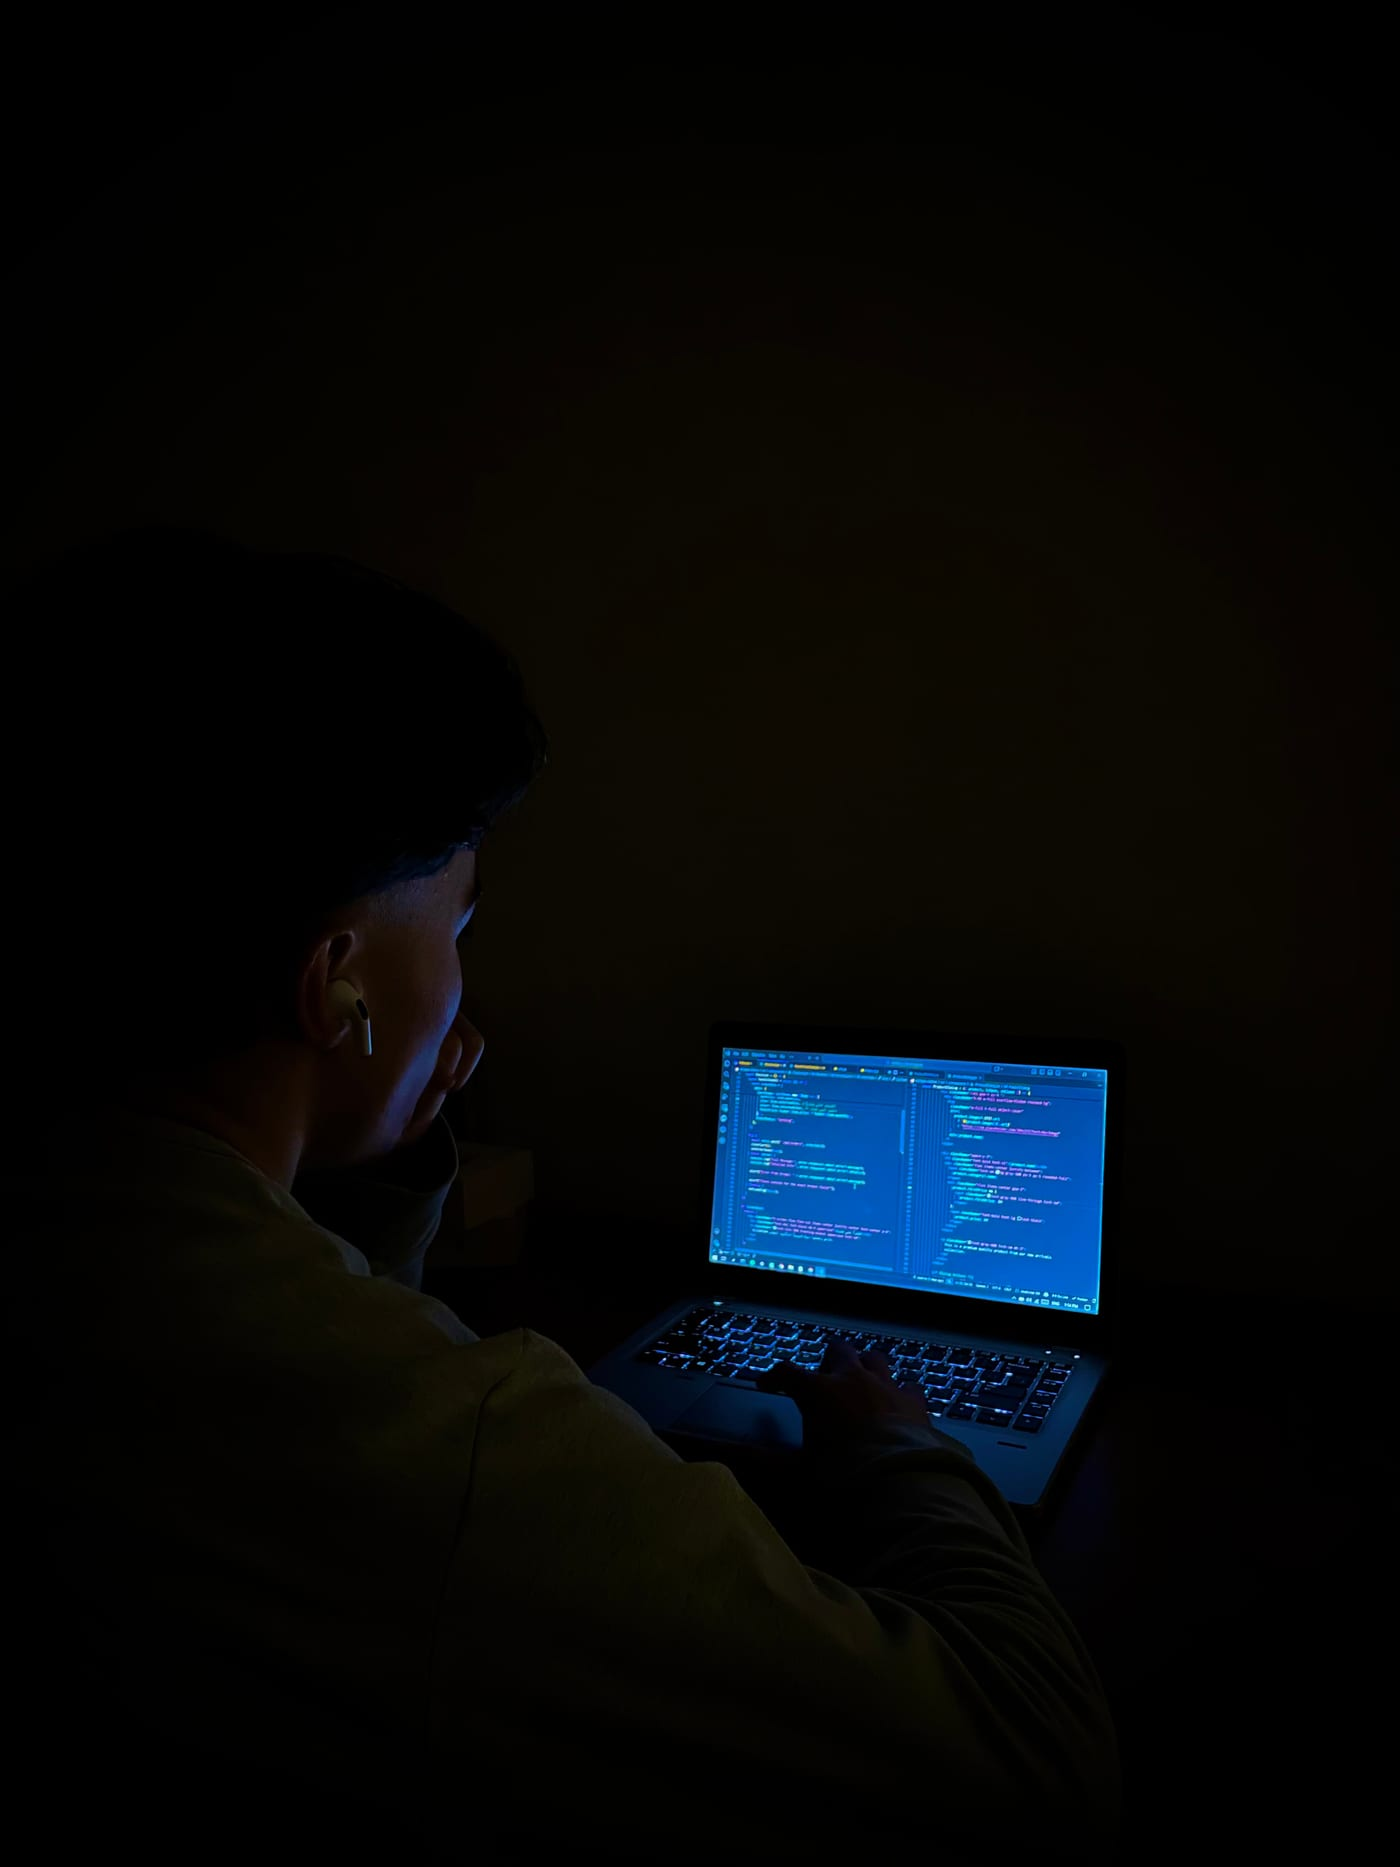
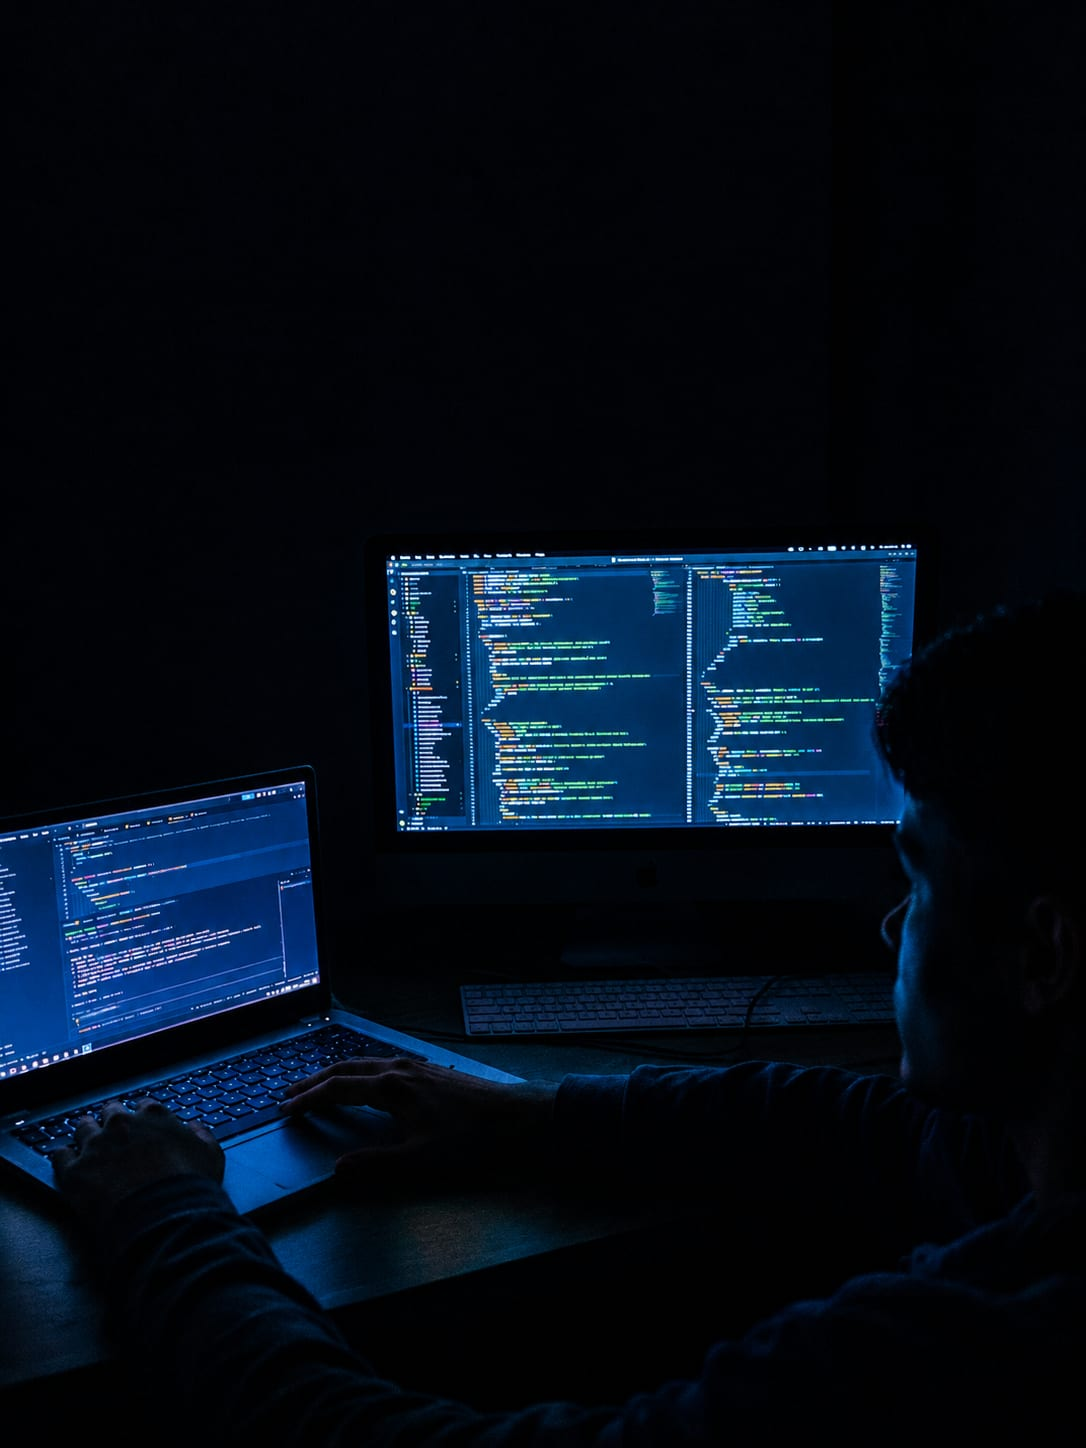
content(about): new portrait photo
Optimized JPG (1.8 MB PNG to 91 KB, no metadata), focus moved right so
the subject stays in the frame.

diff --git a/src/components/about/portrait.tsx b/src/components/about/portrait.tsx
@@ -33,7 +33,7 @@ export function Portrait({ alt, className }: { alt: string; className?: string }
             fill
             placeholder="blur"
             sizes="(min-width: 1024px) 40vw, 92vw"
-            className="object-cover object-[50%_30%] grayscale-[35%] transition-[filter,scale] duration-1000 ease-out-expo group-hover:scale-105 group-hover:grayscale-0"
+            className="object-cover object-[75%_50%] grayscale-[35%] transition-[filter,scale] duration-1000 ease-out-expo group-hover:scale-105 group-hover:grayscale-0"
           />
         </motion.div>
         {/* Warm ember tint */}
